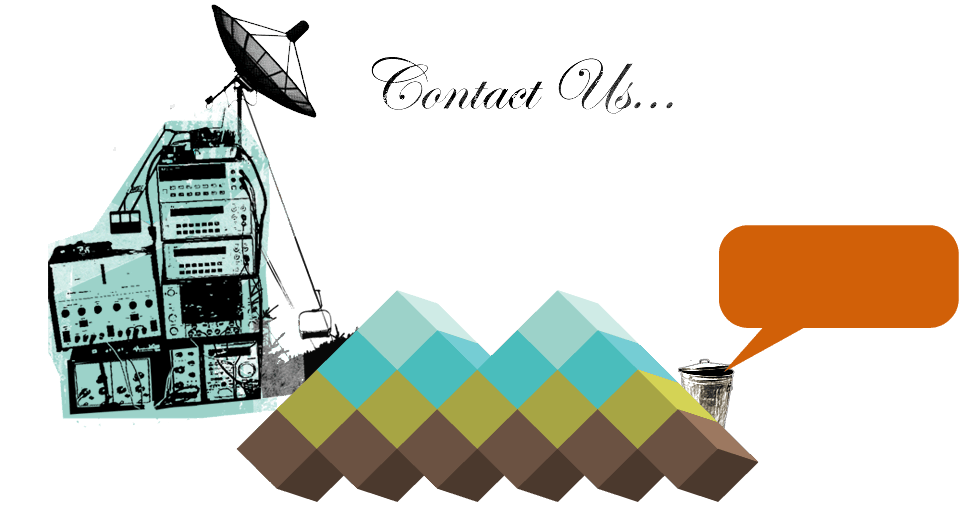
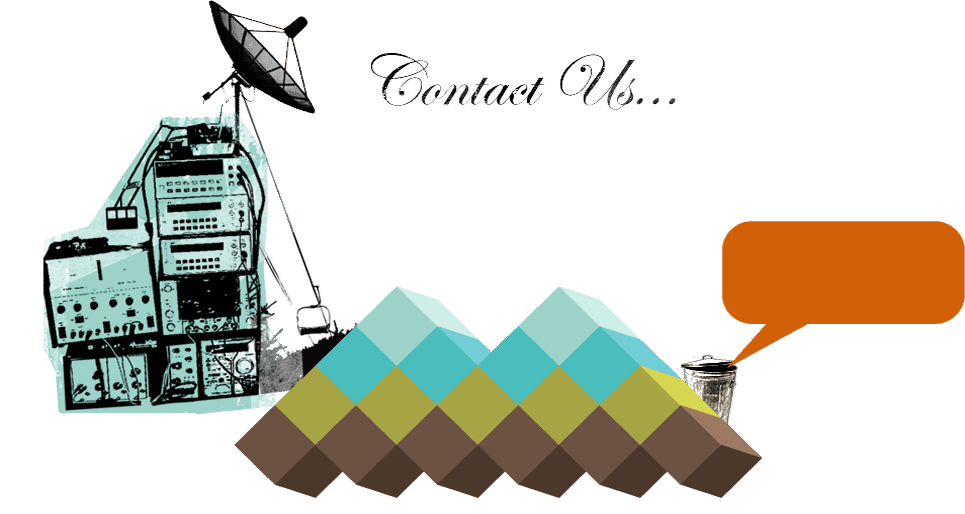
added [x] to close video player, added pagination under video tiles

diff --git a/app/assets/stylesheets/bootstrap.css.less b/app/assets/stylesheets/bootstrap.css.less
@@ -339,6 +339,13 @@ h6 {
 	-webkit-box-sizing: border-box;
 	-moz-box-sizing: border-box;
 	box-sizing: border-box;
+
+	/*
+	-webkit-transition: all .3s ease;
+    -moz-transition:    all .3s ease;
+    -ms-transition:     all .3s ease;
+    -o-transition:      all .3s ease;
+   	*/
 }
 
 html { 
@@ -1171,10 +1178,10 @@ MM.       8M     M8 MM    MM MM   ,pm9MM 8M        MM
 
 		.contactBackground {
 			background: url(contactImage.png); 
-			width: 969px;
-			height: 530px;
+			width: 965px;
+			height: 514px;
 			position: absolute;
-			top: 168px;
+			top: 173px;
 			left: -40px;
 		}
 
@@ -1463,17 +1470,39 @@ MM.           MM   MM 8M""""""  MM    MM MM
 
 		.videoBorder {
 			background-image: url('videosBorder.png');
-			width: 1272px;
-			height: 457px;
+			width: 1261px;
+			height: 444px;
 			position: absolute;
 			top: 268px;
-			left: -125px;
+			left: -119px;
 			z-index: 105;
 		}
 
-		.containerVideos {
+		.paginateVideos {
+			position: absolute;
+			width: 280px;
+			height: 28px;
+			top: 677px;
+			left: 70px;
+			//border: 1px solid red;
+			z-index: 200;
 
-			
+			h3 {
+				color: white;
+				text-align: center;
+
+				a {
+					color: white;
+					text-decoration: none;
+
+					&:hover {
+						color: @blueText;
+					}
+				}
+			}
+		}
+
+		.containerVideos {
 			position: absolute;
 			width: 1152px;
 			height: 384px;
@@ -1498,19 +1527,23 @@ MM.           MM   MM 8M""""""  MM    MM MM
 				}
 			
 				.item {
-					
 					position: relative;
 					top : 0;
 					left : 0 ;
 					width: 288px;
 					height: 192px;
 					z-index : 120;
+
+					&:hover {
+						border: 13px solid black;
+						
 					img {
 						width: 100%;
 						height: 100%;
+						//border: 0px solid black;
+
+						
 					}
-					&:hover {
-						border : 10px solid black;
 					}
 				}
 			}
@@ -1527,6 +1560,26 @@ MM.           MM   MM 8M""""""  MM    MM MM
 			top: 235px;
 			left: 0px;
 			z-index: 150;
+
+			.closeButton {
+				position: absolute;
+				height: 32px;
+				width: 57px;
+				top: 56px;
+				left: 936px;
+				text-align: center;
+				z-index: 200;
+				
+				h3.closeX a {
+					color: black;
+					font-size: 1.3em;
+					text-decoration: none;
+
+					&:hover {
+						color: @blueText;
+					}
+				}
+			}
 
 			.videoNav {
 				height: 185px;

diff --git a/app/assets/javascripts/scripts.js b/app/assets/javascripts/scripts.js
@@ -12,7 +12,7 @@ $(function() {
       top:'+=29', 
       left: '+=87'
     },{queue:false,duration:300});
-    $('.wordTheTeam, .arrowTheTeam').fadeOut(300);
+    $('.wordTheTeam, .arrowTheTeam').fadeOut({queue:false,duration:300});
   });
 });
 
@@ -29,7 +29,7 @@ $(function() {
       top:'+=28', 
       left: '+=87'
     },{queue:false,duration:300});
-    $('.wordTelevision, .arrowTelevision').fadeOut(300);
+    $('.wordTelevision, .arrowTelevision').fadeOut({queue:false,duration:300});
   });
 });
 
